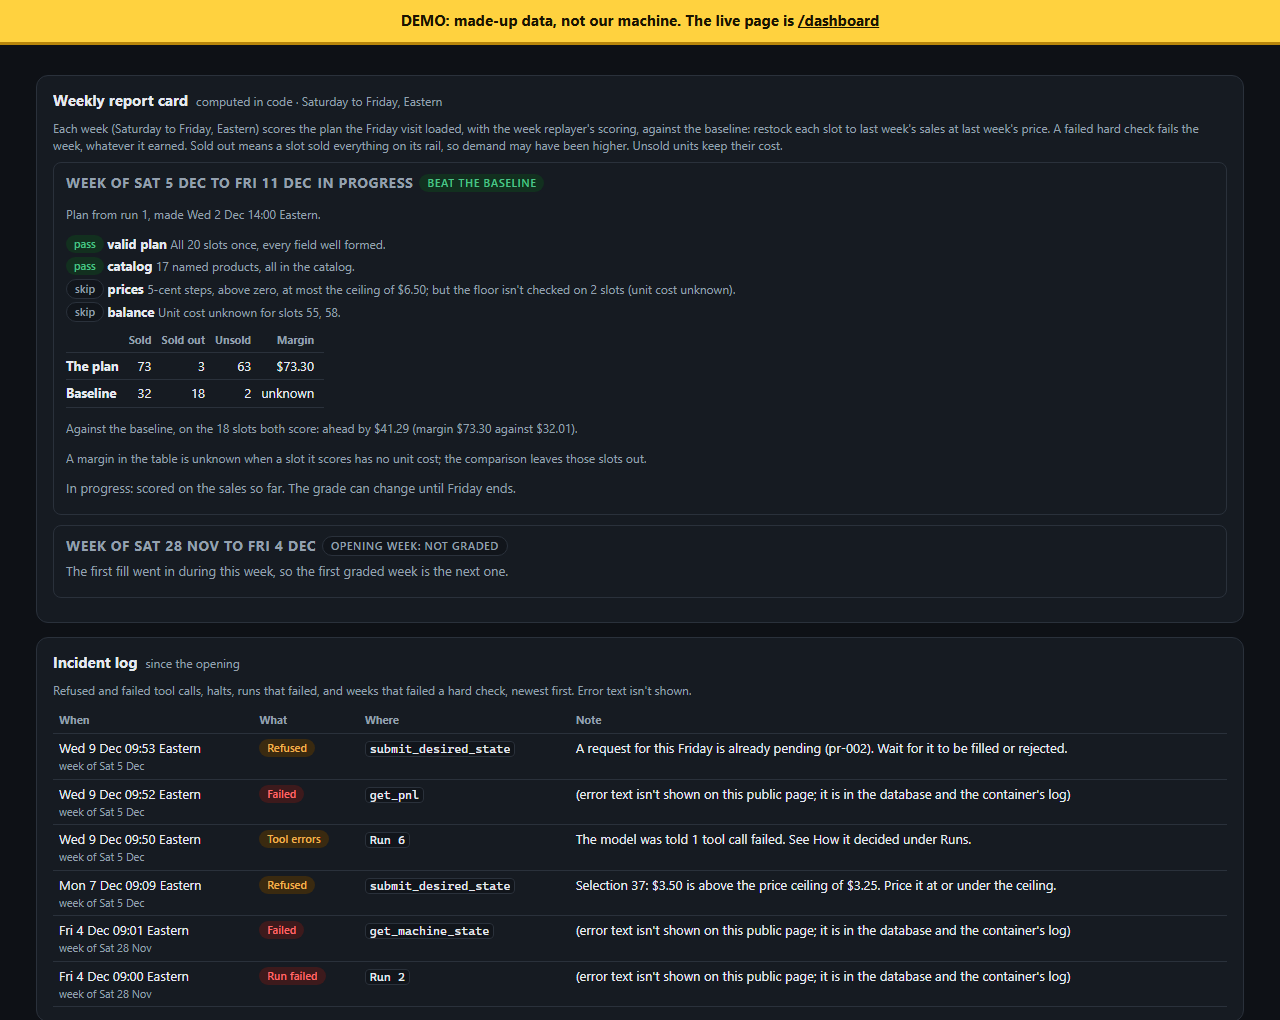
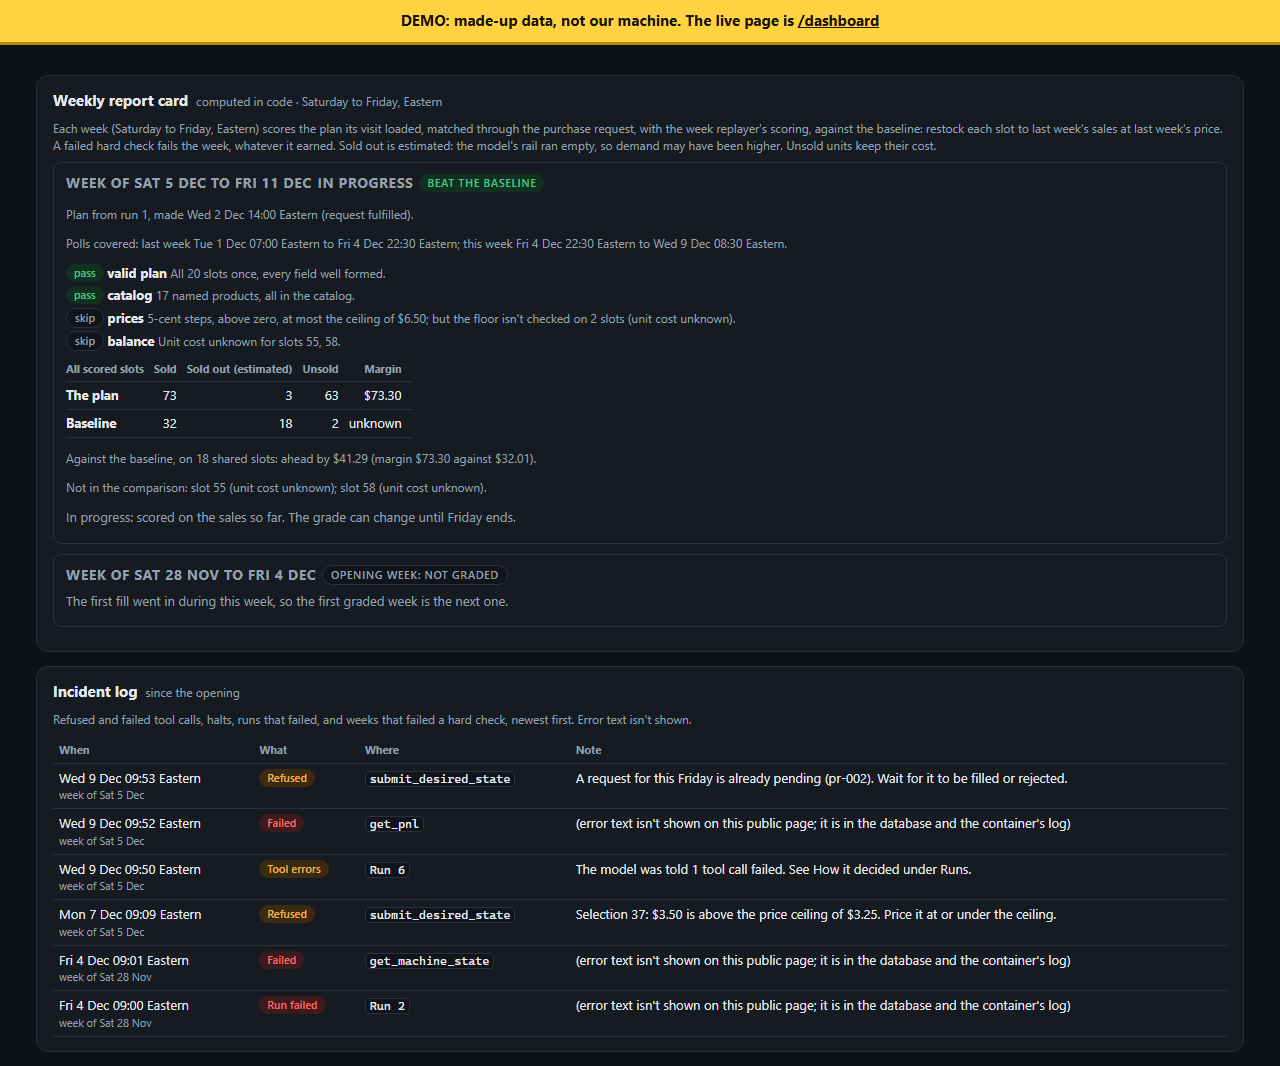
Report card docs, demo snapshot and screenshot follow the fixes (#48)
docs/dashboard.md and the module docstring describe the request-matched plan,
validation first, stock just before the visit, poll coverage and withheld
grades, the shared-slot comparison and the counted incident total. The demo
snapshot is rebuilt (python -m vending.demo.make) and the screenshot retaken
from it.

Changed region(s): [[0.0312, 0.0912, 0.9375, 0.5775], [0.0312, 0.6382, 0.8438, 1.0], [0.0, 0.0, 1.0, 0.0608]]

diff --git a/vending/report_card.py b/vending/report_card.py
@@ -1,31 +1,35 @@
 """The weekly report card and the incident log (#48), computed in code. No model calls.
 
 **Report card.** One card per display week of the ledger: Saturday to Friday, Eastern
-(`ledger.week_of`), from the ledger's opening on. The week's plan is the latest live run that
-submitted a plan in the week before it, since that plan is what the Friday visit loads at the start
-of the week. It is scored with the replayer's own scoring (`vending.replay.scoring.score`), against
-what our slots really sold in the week, next to the replayer's baseline (restock each slot to last
-week's sales at last week's price, `deciders.Baseline`) scored the same way:
+(`ledger.week_of`), from the ledger's opening on. The week's plan is the live run whose purchase
+request led to the visit that loads the week (`_Reader.plan_for`): matched by `request_id`, the
+latest receipt before the week wins, else a request still waiting on its receipt, else a rejected
+one. The stored plan is validated first (`validate_plan`, fixed sentences only). It is scored with the
+replayer's own scoring (`vending.replay.scoring.score`), against what our slots really sold in the
+week, next to the replayer's baseline (restock each slot to last week's sales at last week's price,
+`deciders.Baseline`) scored the same way:
 
 - **Hard checks** pass, fail or skip: a valid plan, catalog, prices (floor and ceiling, the
   wildcard's own ceiling for the wildcard slot) and balance. A skip means the data the check needs
   isn't there; it never counts as a pass. The replayer's "no writes" check is left out: a live run
   is meant to write its request.
-- **Outcome**, as the replayer scores it: units sold, slots that sold out (sold everything on the
-  rail; demand may have been higher), unsold units on the rail (they keep their cost, so they are
-  counted, not charged) and margin.
-- **Against the baseline**: the plan's margin less the baseline's on the slots both score (a new
-  product has no sales to score against, so a swapped slot is left out of both).
+- **Outcome**, as the replayer scores it: units sold, slots that sold out (estimated: the rail ran
+  empty in the model; demand may have been higher), unsold units on the rail (they keep their cost, so
+  they are counted, not charged) and margin.
+- **Against the baseline**: the plan's margin less the baseline's on the shared slots. A slot the
+  visit swapped is left out (its sales are a product the baseline never stocked); a shared slot with
+  unknown unit cost makes the comparison unavailable.
 
 A week that fails a hard check gets a failing grade, whatever it earned. The week holding the
 opening isn't graded: the first fill goes in partway through it. The current week is graded on its
-sales so far and says so.
+sales so far and says so. A closed week whose polls cover too little of it isn't graded either.
 
 The scoring needs each slot's product, stock and unit cost, which a replayed week doesn't have
-(`replay.state`). They come from the receipts (`vending.stock`): the product and unit cost in the
-slot at the start of the week (what the visit loaded), and the units on the rail when the plan was
-made (the stock before the visit). The catalog and balance are read as they stood when the plan was
-made; the ceilings are the planner's settings now.
+(`replay.state`). They come from the receipts (`vending.stock`): the product and units just before
+the visit, and the unit cost after it when the product is unchanged. Polls are read only up to the
+page's `now`. The catalog and balance are read as they stood when the plan was made; the ceilings
+are the planner's settings now. Every displayed sentence is a fixed template filled with validated
+values; one week that fails to score leaves the others.
 
 **Incident log.** From the opening on, newest first: refused and failed tool calls (`action_log`),
 halt switch flips (`action_log`, tool `halt`), live runs that failed, halted or were left running,

diff --git a/docs/dashboard.md b/docs/dashboard.md
@@ -41,8 +41,8 @@ what changed and why.
 | Requests | Our last 10 purchase requests (status, what was paid, lines loaded, unavailable and alternates). Then every catalog request, newest first: counts by status, the open (`pending`) ones against the bridge's cap and the places left, and each request's status, its SKU once it has one (an approved product may be added under a SKU we wouldn't guess), and the decision note | `purchase_requests`, `purchase_lines`, `product_requests` |
 | Back stock | What the receipts say is in the closet, and what each unit cost us | `vending.stock` |
 | Product leaderboards | The ten best sellers by SKU, flavor, and brand for our current assignment. Each row shows units sold, revenue excluding tax, and sell-through. Sell-through divides units sold by units loaded since the opening. For this week (Saturday to Friday, Eastern), it divides units sold by starting stock plus units loaded. The rate is unavailable if sales exceed recorded stock. Sales with an unknown product stay out of the rankings. The panel counts those sales and labels the units with an estimated cost. | `vending.stock`, `vending.ledger`, `catalog_products` |
-| Weekly report card | Under The plan. One card per week (Saturday to Friday, Eastern, the ledger's display weeks) from the opening, newest first, the last 8. Each scores the plan the Friday visit loaded, with the week replayer's scoring, beside its baseline: restock each slot to last week's sales at last week's price. **Hard checks** (valid plan, catalog, prices, balance) pass, fail or skip; a failed check fails the week, whatever it earned. **Outcome**: units sold, slots that sold out, unsold units and margin, for the plan and the baseline. **Against the baseline**: the margin difference on the slots both score. The opening week isn't graded, and the current week is graded on its sales so far. See [The weekly report card](#the-weekly-report-card) | `agent_runs`, polls (`vending.replay`), `vending.stock`, `vending.ledger`, `catalog_products`, `product_requests`, `config` |
-| Incident log | Under the report card. From the opening, newest first, the last 50: refused and failed tool calls, halt switch flips, live runs that failed, halted or were left running, live runs whose model was told a tool call failed (counted, not quoted), and weeks that failed a hard check. Each has a one-line note; a failure's text is never shown | `action_log`, `agent_runs`, `agent_steps`, the report card |
+| Weekly report card | Under The plan. One card per week (Saturday to Friday, Eastern, the ledger's display weeks) from the opening, newest first, the last 8. Each scores the plan its visit loaded (matched through the purchase request), with the week replayer's scoring, beside its baseline: restock each slot to last week's sales at last week's price. **Hard checks** (valid plan, catalog, prices, balance) pass, fail or skip; a failed check fails the week, whatever it earned. **Outcome**: units sold, slots that sold out (estimated), unsold units and margin, for the plan and the baseline. **Against the baseline**: the margin difference on the shared slots, with what it leaves out. The opening week isn't graded, the current week is graded on its sales so far, and a closed week whose polls cover too little of it shows its figures without a grade. See [The weekly report card](#the-weekly-report-card) | `agent_runs`, polls (`vending.replay`), `vending.stock`, `vending.ledger`, `catalog_products`, `product_requests`, `config` |
+| Incident log | Under the report card. From the opening, newest first, the last 50 (with the total counted): refused and failed tool calls, halt switch flips, live runs that failed, halted or were left running, live runs whose model was told a tool call failed (counted, not quoted), and weeks that failed a hard check. Each has a one-line note; a failure's text is never shown | `action_log`, `agent_runs`, `agent_steps`, the report card |
 | Footer | One small line on who has looked: browsers, visits and sign-ins, all time and this week (`vending.visits`; see [`deploy.md`](deploy.md#the-public-pages)) | `page_visits`, `page_visit_totals` |
 
 ### The machine close-up
@@ -186,26 +186,40 @@ made-up data (`vending/demo/make.py`), runs `snapshot()` on it, writes the file 
 
 Computed in code by `vending/report_card.py` (#48); no model calls. For each week from the ledger's opening:
 
-- **The week's plan** is the latest live run that submitted a plan in the week before (status `submitted`,
-  with a plan). That is the plan the Friday visit loads at the start of the week. With none, the card says
-  "No plan submitted" and scores every slot as kept. Dry runs and replays never count.
+- **The week's plan** is matched to its visit through the run's purchase request (`agent_runs.request_id`). A
+  request whose receipt is in loads the week after its visit; with more than one for a week, the latest visit
+  wins (a paid midweek visit after the Friday request supersedes it, and the card names the plan it replaced).
+  A request with no receipt yet is meant for the week after the Friday the planner buys for when the run
+  started (the Thursday 23:59 Eastern cutoff, as on the plan panel), and is scored as if loaded, saying so. A
+  rejected request shows only the hard checks, graded "Request rejected". With no match the card says "No plan
+  matched" and scores nothing. Dry runs and replays never count; plans are read from two weeks before the
+  oldest card shown.
+- **The stored plan is validated first**, in fixed sentences that name only our slot numbers: a malformed
+  entry, a price or fill that isn't one, a product that isn't a SKU, or an entry outside our assignment fails
+  "valid plan" without quoting the plan. Then it is adapted: `off_cycle` reads as a midweek visit, a slot left
+  to fill its column is filled to its package's capacity (`vending.capacity`), and only a kept slot with no
+  reason gets a fixed one. Where the capacity isn't known the entry keeps its price and product for the checks,
+  and only its fill and outcome are unscored.
 - **Scoring** is the replayer's (`vending.replay.scoring.score`, [week-replayer.md](week-replayer.md)): last
-  week's sales and prices are the state, this week's sales are the demand. The receipts fill in what a replayed
-  week lacks: each slot's product and unit cost at the start of the week (what the visit loaded) and its units
-  when the plan was made (the stock before the visit). The catalog and balance are as they stood when the plan
-  was made. The stored plan is the desired state, so `off_cycle` reads as a midweek visit, a slot left to fill
-  its column is filled to its package's capacity (`vending.capacity`), and a slot with no reason (the agent
-  writes reasons only for slots it changes) gets a fixed one.
-- **Hard checks**: valid plan, catalog, prices and balance. The price check uses the planner's ceilings, so the
-  wildcard slot is held to its own (\$8.00, #166). The replayer's "no writes" check is left out, since a live run
-  is meant to write its request. A skip means the data isn't there and is never a pass.
-- **Outcome**: sold, sold out (slots that sold everything on the rail, so demand may have been higher),
-  unsold units (they keep their cost, so they are counted, not charged) and margin.
+  week's sales and prices are the state, this week's sales are the demand, read only from polls up to the
+  page's moment. The card shows the poll times each week's sales cover. The receipts fill in what a replayed
+  week lacks: each slot's product and units just before the visit, and its unit cost after it when the product
+  is the same. The catalog and balance are as they stood when the plan was made.
+- **Hard checks**: valid plan, catalog, prices and balance, run even when the polls can't rebuild last week.
+  The price check uses the planner's ceilings, so the wildcard slot is held to its own (\$8.00, #166). The
+  balance check fails when the known spend alone is over the funds, even with a cost unknown. The replayer's
+  "no writes" check is left out, since a live run is meant to write its request. A skip means the data isn't
+  there and is never a pass.
+- **Outcome**, for all scored slots: sold, sold out (estimated: the model's rail ran empty, so demand may have
+  been higher), unsold units (they keep their cost, so they are counted, not charged) and margin.
 - **Grade**: failed a hard check (whatever it earned), or beat, level with or behind the baseline on margin over
-  the slots both score, to the cent. A swapped slot has no sales to score against, so it is left out of both.
-  With no common slot, or a missing unit cost, it is "Not scored".
+  the shared slots, to the cent. A slot the visit swapped is left out (its sales are a product the baseline
+  never stocked), and the card says so beside the figures. A shared slot with unknown unit cost makes the
+  comparison unavailable; with no shared slot it is "Not scored".
 - The week holding the opening isn't graded: the first fill goes in partway through it. The current week says
-  "in progress", and its grade can change until Friday ends.
+  "in progress", and its grade can change until Friday ends. A closed week whose polls cover too little or too
+  much of it shows its figures as "Incomplete data: not graded".
+- A week that fails to score shows that, and the other weeks still show.
 
 Before the opening both panels say there is no data yet. Text in the card that names a numbered selection
 outside our assignment is replaced, as elsewhere on the page.
@@ -215,7 +229,8 @@ that failed, halted or still say `running` 2 hours on), `agent_steps` (a count o
 errors, for a run that didn't fail anyway) and the report card (weeks that failed a hard check). A failure's
 stored text is never read: the row says `error` and `hide_errors` gives it the fixed message, on the public
 page and the standalone one alike. A refusal keeps its first line, cut to 160 characters. A note from before
-the current slot assignment is replaced.
+the current slot assignment is replaced. Each source reads only its newest 50 rows, the total is counted in
+SQL, and a run that failed, halted or stuck is one incident (its tool errors aren't listed again).
 
 **Not built yet:** the agent reading a compact summary of its last few report cards and recent incidents
 before it plans (#48). That is a follow-up.
